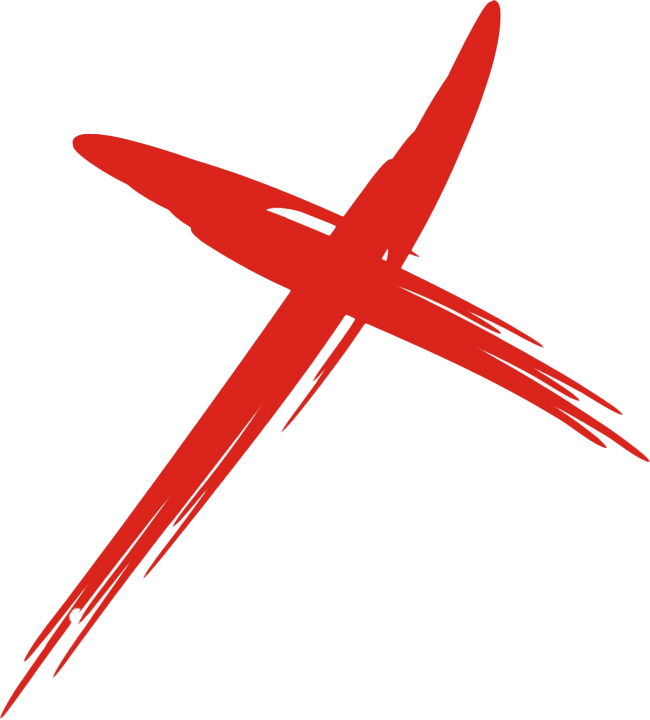
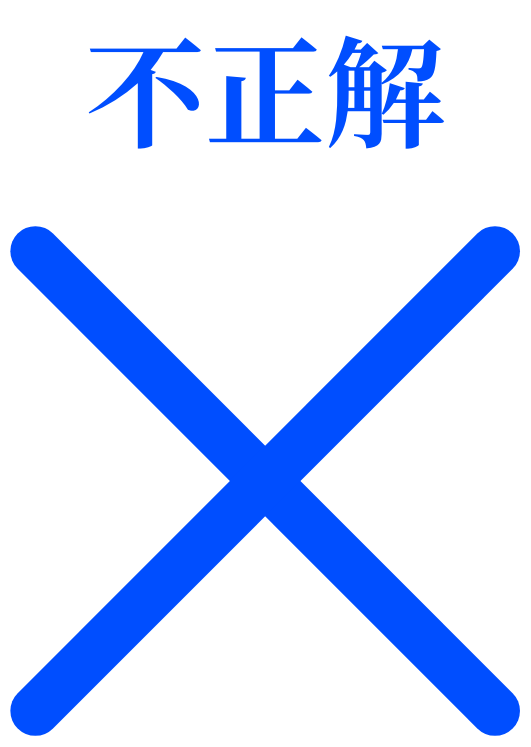
問題数完成/画像も適切な物に変更

diff --git a/src/Components/questionData.js b/src/Components/questionData.js
@@ -20,7 +20,6 @@ class Quiz {
 
 const QUESTIONS = [
     new Quiz("体育活動中の死亡事故で一番多い原因は？", ["心臓発作", "頭部をぶつける", "エレベータで押し合う", "こける"], 1, 2),
-    new Quiz("大相撲の力士が禁止されているのはどれ", ["ダイエット", "車の運転", "電車の乗車", "小舟の乗船"], 2, 2),
     new Quiz("「最初はグー」初めて使った人は。", ["志村けん", "吉澤俊介", "じゃんけん協会会長 松本さん", "ヒカキン"], 1, 2),
     new Quiz("「音楽の父」と称される音楽家は誰でしょう？", ["バッハ", "モーツァルト", "ベートーヴェン", "チャイコフスキー"], 1, 2),
     new Quiz("世界で最も古いとされている奈良にある木造建築の寺の名前はなんでしょう？", ["東大寺", "法隆寺", "金閣寺", "唐招提寺"], 2, 2),
@@ -29,17 +28,18 @@ const QUESTIONS = [
     new Quiz("夏目漱石の作品、吾輩は猫である の冒頭文「吾輩は猫である。名前は〇〇〇〇。」ここに入る文字は？", ["レオ", "ヨシザワ", "ニャー子", "まだない"], 4, 2),
     new Quiz("日本で初めて拳銃の携帯が認められた職業はなんでしょうか？", ["警察官", "国家警備員", "郵便配達員", "自宅警備隊"], 3, 2),
     new Quiz("FIFA(国際サッカー連盟)の本部がある国の名前は？", ["スイス", "ブラジル", "アルゼンチン", "フランス"], 1, 2),
+    new Quiz("吉澤先生の大好きなアーティストは何でしょう？", ["あいみょん", "YOASOBI", "Ado", "Mrs.Green Apple"], 1, 2),
 
     new Quiz("ゴルフの試合において、選手の打ったボールが観客のリュックのポケットに入るという珍事件が発生した。この場合どのようにしてプレーを続行したでしょうか。(ちなみに、観客はコース内ではなく観覧エリア内にいた。)", ["打ち直し", "観客の位置にボールを置く", "(ボールをプレゼントし)やり直す", "ゲーム中断"], 2, 2),
     new Quiz("東京で最も晴れやすい月は何月か", ["1月", "4月", "8月", "10月"], 1, 2),
     new Quiz("新聞紙を26回折ると、どのくらいの高さになるでしょう", ["歩行者用の信号", "高層マンション", "富士山", "月"], 3, 2),
     new Quiz("メソポタミアの意味は何でしょう？", ["大河", "川の間", "神", "オアシス"], 2, 2),
-    new Quiz("吉澤先生の大好きなアーティストは何でしょう？", ["あいみょん", "YOASOBI", "Ado", "Mrs.Green Apple"], 1, 2),
     new Quiz("クロちゃんの本名は何でしょうか。", ["クロ・チャン", "黒田明人", "黒川明人", "黒川リチ"], 3, 2),
     new Quiz("「神は死んだ。」で有名なツァラトゥストラを書いた人は誰でしょう？", ["ニーチェ", "ヘルマン・ヘッセ", "イエス・キリスト", "アーサー王"], 1, 2),
     new Quiz("ポケモンカードの個人売買の最高額で、ギネス認定されている金額は何億円か。", ["46億円", "3000万円", "20億円", "３億円"], 1, 2),
     new Quiz("気象庁が植物や動物の季節による変化を観測する「生物季節観測」でないものはどれ？", ["たんぽぽ前線", "さくら前線", "ひまわり前線", "もみじ前線"], 3, 2),
-    new Quiz("新垣結衣がブレイクしたきっかけのｃｍは？", ["アサヒ 生ビール", "ニンテンドー", "メルティーキッス", "ポッキー"], 4, 2),
+    new Quiz("ラー油の「ラー」とはどんな意味でしょうか？", ["辛い", "香ばしい", "赤い", "美味しい"], 1, 2),
+    new Quiz("吉澤先生の兄弟構成はどれでしょう？", ["兄_吉澤先生_妹_妹_妹", "吉澤先生_弟_妹", "兄_姉_吉澤先生_妹_弟", "姉_自分_妹_妹"], 1, 2),
 
     new Quiz("日本人の血液型で一番多いのはA型です。では、世界的に見た場合に一番多いのは何型でしょうか？", ["A型", "B型", "O型", "AB型"], 3, 2),
     new Quiz("「学ラン」の「ラン」とはなんでしょうか？", ["お花のラン", "オランダ", "毛利 ラン", "ランダム"], 2, 2),
@@ -47,16 +47,32 @@ const QUESTIONS = [
     new Quiz("塾に通っている中学生の割合はどのくらいでしょうか？", ["約10%", "約30%", "約50%", "約70%"], 3, 2),
     new Quiz("2023年度 大学入学共通テスト 英語リーディング 第6問 で出題された虫の名前は何でしょう", ["アリ", "クマムシ", "毛虫", "クモ"], 2, 2),
     new Quiz("大人気漫画「鬼滅の刃」にて、藤の花は鬼にも有効な毒として描かれています。では、現実の藤の花の毒はどの程度の強さでしょうか？", ["人間には一切効かない", "摂りすぎるとめまいや吐き気がする", "少量でも人間の命に関わる", "毒は一切ない"], 2, 2),
-    new Quiz("「中二病」という言葉を初めて使ったのは、ある芸能人です。それは誰でしょうか？", ["タモリ", "久本雅美", "黒柳徹子", "伊集院光"], 4, 2),
     new Quiz("大人気漫画「ワンピース」に登場するキャラクター「サンジ」は当初は違う名前になる予定だったそうです。予定ではどんな名前だったでしょうか？", ["メンマ", "ゲンジ", "ナルト", "カヲル"], 3, 2),
     new Quiz("夏目漱石の本名は何か。", ["夏目金之助", "柳川隆之助", "夏井いつき", "石田なつめ"], 1, 2),
     new Quiz("呪術廻戦 五条悟の台詞「菊水庵 喜久福 〇〇名物 超うまい」とある。この喜久福が有名な県は？", ["福島県", "岩手県", "新潟県", "宮城県"], 4, 2),
+    new Quiz("吉澤先生が一番好きな食べ物は何でしょう？", ["とんかつ", "焼肉", "冷麺", "トマト"], 1, 2),
 
-    new Quiz("FIFA世界ランキング一位の国は ブラジルですが、ベスト8ではない国はなんでしょう？", ["ベルギー", "オランダ", "クロアチア", "ポルトガル"], 4, 2),
     new Quiz("ソフトテニスにおいて、ラケットに二回以上ボールが当たってしまったとき、相手の得点になってしまう。このときのファール名をなんというか。", ["ドリブル", "コードバイオレーション", "タイブレーク", "フォルト"], 1, 2),
     new Quiz("ナポレオン・ボナパルトのあだ名は", ["英雄王", "食人鬼", "太陽の沈まぬ王", "獅子心王"], 2, 2),
     new Quiz("エーミールの「そうかそうか、つまり君はそんなやつだったんだな」のセリフが有名な小説『少年の日の思い出』の作者は誰でしょう。", ["ミカエル・ファミリア", "アーノルド・ローベル", "ヘルマン・ヘッセ", "かまきり りゅうじ"], 3, 2),
     new Quiz("「Gorilla gorilla gorilla」という学名を持つゴリラはなんでしょう？", ["クロスリバーゴリラ", "マウンテンゴリラ", "ニシローランドゴリラ", "ヒガシローランドゴリラ"], 3, 2),
+    new Quiz("母の日に贈る花で有名な「カーネーション」。さて、黄色のカーネーションの花言葉は次のうちどれ？", ["家族愛", "感謝", "嫉妬", "軽蔑"], 4, 2),
+    new Quiz("日常的に「マジ？」って言葉がよく使われますが、その「マジ」という言葉は、一体いつからあったでしょう？", ["江戸時代", "明治時代", "昭和時代", "平成時代"], 1, 2),
+    new Quiz("次のうち、実際に北海道に存在する川はどれ？", ["イトオシイ川", "クルオシイ川", "ヤリキレナイ川", "チョウシデナイ川"], 3, 2),
+    new Quiz("「見ろ、人がごみのようだ」でお馴染みムスカ大佐。さて、彼の年齢はいくつでしょう？", ["28歳", "32歳", "58歳", "62歳"], 1, 2),
+    new Quiz("「ウォーリーを探せ」でお馴染みのウォーリー。彼の肩書きとされているのは、次のうちどれ？", ["コックさん", "脱獄した囚人", "お金配りおじさん", "コメディアン"], 2, 2),
+    new Quiz("吉澤先生の大学生時代の学科はなんでしょう？", ["情報メディア科", "哲学科", "サブカルチャー研究科", "日本文学科"], 4, 2),
+
+    new Quiz("大相撲の力士が禁止されているのはどれ", ["ダイエット", "車の運転", "電車の乗車", "小舟の乗船"], 2, 2),
+    new Quiz("「雪花菜（きらず）」。これはある食品を指す言葉ですが、その食品とは一体なんでしょうか？", ["砂糖菓子", "菜の花", "おから", "あられ"], 3, 2),
+    new Quiz("誇り高きサイヤ人の王子 べジータは何ｃｍでしょう？", ["159cm", "164cm", "179cm", "184cm"], 3, 2),
+    new Quiz("「シルバー人材センター」など、高齢者を表す色というイメージがある「銀（シルバー）」。シルバーが高齢者を指す言葉として定着した由来は何でしょうか？", ["銀座", "優先席", "銀歯", "白髪"], 2, 2),
+    new Quiz("ことわざの「急がば回れ」の語源となったのはどこでしょうか？", ["富士山", "鳥取砂丘", "清水寺", "琵琶湖"], 4, 2),
+    new Quiz("かぐや姫の原作である「竹取物語」の作者は誰でしょうか？", ["紫式部", "清少納言", "聖徳太子", "作者不明"], 4, 2),
+    new Quiz("靴の一種、「ローファー」には英語でどんな意味があるでしょうか？", ["怠け者", "働き者", "親不孝者", "幸せ者"], 1, 2),
+    new Quiz("海上で事件や事故が起こった時、海上保安庁に通報する番号はどれでしょうか？", ["104", "118", "177", "189"], 2, 2),
+    new Quiz("選挙の投票用紙にはある特徴があります。それは一体なんでしょうか？", ["折り曲げても勝手に開く", "燃やせない", "特殊な表面加工が施されている。", "高級な紙が使われている"], 1, 2),
+    new Quiz("吉澤先生が、2年間このクラスで過ごした 一番 の思い出はなんでしょう？", ["２年生の大掃除でみんながやれることを探してやっていたこと", "試験のたびに学年１位の成績を取っていたこと。", "定期的にスマホを没収してほしい人が登場したこと", "体育祭で２年連続優勝したこと"], 1, 2),
 ];
 
 export {QUESTIONS, Quiz};

diff --git a/src/Components/FinalView.jsx b/src/Components/FinalView.jsx
@@ -1,6 +1,31 @@
+import '../App.css';
+import React from 'react';
+
 const FinalView = () => {
     return(
-        <h1>これでクイズは終了です。</h1>
+        <React.StrictMode>
+            <h1 className="final-title">3年3組のみんな</h1>
+            <div className="messages">
+                <h3 className="final-classLeader">級長からのメッセージ</h3>
+                <p className='message'>
+                    テキストテキストテキストテキストテキストテキストテキストテキストテキスト
+                    テキストテキストテキストテキストテキストテキストテキストテキストテキスト
+                    テキストテキストテキストテキストテキストテキストテキストテキストテキスト
+                </p>
+            </div>
+            <div className="messages">
+                <h3 className="final-classLeader">吉澤先生からのメッセージ</h3>
+                <p className='message'>
+                    テキストテキストテキストテキストテキストテキストテキストテキストテキスト
+                    テキストテキストテキストテキストテキストテキストテキストテキストテキスト
+                    テキストテキストテキストテキストテキストテキストテキストテキストテキスト
+                </p>
+            </div>
+            <div className="emagency-mission">
+                教卓のベルを先に鳴らした<br/>上位3組には"+10ポイント"プレゼント!!
+            </div>
+        </React.StrictMode>
+        
     );
 }
 

diff --git a/src/Components/Answer.jsx b/src/Components/Answer.jsx
@@ -58,6 +58,7 @@ const Answer = ()=>{
     }
 
     const showResultModalImage = (isCorrect) => {
+        console.log(QUESTIONS[quiz.index].text);
         if(isCorrect) {
             return <img src={correctImage} alt="incrrectImage" />;
         } else {
@@ -65,11 +66,18 @@ const Answer = ()=>{
         }
     }
 
+    const showDetailAnswer = (isCorrect) => {
+        if(!(isCorrect)) {
+            return <h2>答えは{settingQuetions[quiz.index].correct}番の<br/>「{settingQuetions[quiz.index].buttonsList[settingQuetions[quiz.index].correct-1]}」です。</h2>;
+        } 
+    }
+
     return(
         <div className="quiz-container">
             <Modal isOpen={showResultModal}>
                 <div id="result-form">
                     {showResultModalImage(quiz.isCorrect)}
+                    {showDetailAnswer(quiz.isCorrect)}
                     <Button onClick={nextQuiz}>次へ</Button>
                 </div>
             </Modal>
@@ -96,14 +104,15 @@ const Answer = ()=>{
 }
 
 const Button = styled.button`
-    width: 100%;
+    width: 85%;
     height: 48px;
     margin-top: 40px;
     line-height: 48px;
-    border-radius: 8px;
+    border-radius: 10px;
     color: white;
-    background-color: #4366ff;
+    background-color: #FF2222;
     font-family: "ヒラギノ丸ゴ ProN";
+    font-size: 24px;
     &:hover {
         opacity: .8;
     }

diff --git a/src/App.css b/src/App.css
@@ -29,14 +29,15 @@ button {
 .quiz-container .answer-buttons {
   width: 100%;
   margin-top: 16px;
+  word-wrap:break-word;
 }
 .quiz-container .answer-buttons button {
   width: 100%;
-  height: 48px;
+  padding: 16px 0;
   margin-top: 16px;
-  line-height: 48px;
   border-radius: 8px;
   color: white;
+  
 }
 .quiz-container .answer-buttons .button-1 {
   background-color: #ff4343;
@@ -59,11 +60,33 @@ button {
   text-align: center;
 }
 
-#result-form h1 {
-  color: red;
+#result-form h2 {
+  font-family: "Noto Serif JP";
+  
 }
-
 #result-form img {
-  width: 100%;
+  margin-top: 50px;
+  margin-bottom: 50px;
+  width: 200px;
 }
 
+/* Final View */
+
+.final-title {
+  font-family: "Noto Serif JP";
+  text-align: center;
+}
+
+.final-classLeader {
+  font-family: "Noto Serif JP";
+  margin-top: 30px;
+  margin-bottom: 10px;
+}
+
+.emagency-mission {
+  height: 50px;
+  width: 90%;
+  margin:0 auto;
+  font-size: 12px;
+  background-color: #ff4343;
+}
